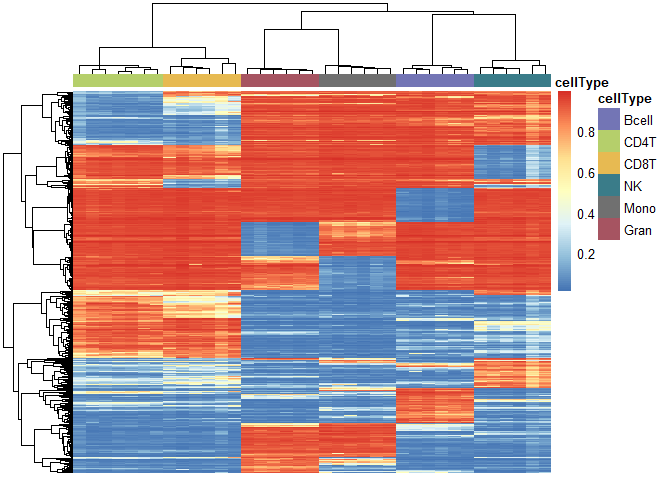
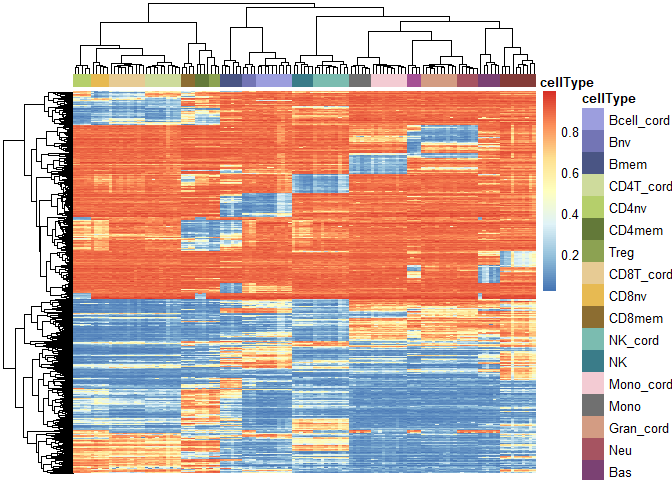
Updated readme and vignette

diff --git a/README.md b/README.md
@@ -47,24 +47,27 @@ UniBlood Reference Generation page
 library(CellsPickMe)
 
 # Request the IDOL reference (2016) with no normalization
-ref_dat <- getRef(ref = "IDOL", normType = "None")
+ref_dat <- getRef(ref = "UniBlood19", normType = "None")
 ```
 
 ### Normalize sample and reference datasets together
 
 Normalize user’s sample and reference data sets together to reduce batch
-effect and improve prediction accuracy
+effect and improve prediction accuracy. Option for `normType` includes
+“Noob”, “Funnorm”, “Quantile”, “Quantile.b”, “None”, with the first 3
+options being exclusively for RGChannelSet objects, and Quantile.b for
+beta matrix.
 
 ``` r
 # Load example blood cell mixture, subsetted from the IDOL dataset (GSE110554)
 test_dat <- CellsPickMe::IDOL_mixed_cells
- 
+    
 # Combine sample and reference data sets together, followed by normalization (if selected)
 comb_dat <- combData(dataset = test_dat, 
-                     reference = ref_dat$reference, 
-                     class = "rgset", 
-                     normType = "Noob", 
-                     cellTypes = ref_dat$cellTypes)
+                     reference = ref_dat$reference,
+                     cellTypes = ref_dat$cellTypes, 
+                     class = "rgset",               #c("rgset", "betas")
+                     normType = "Quantile")         # c("Noob", "Funnorm", "Quantile", "Quantile.b", "None")
 #> Combining Data with Flow Sorted Data and Normalizing.
 ```
 
@@ -115,13 +118,34 @@ probes <- pickProbes(dataNormed = comb_dat,
 
 # Picked probes with RF and the estimated coefficients
 head(probes$coefs$probeCoefs$RF)
-#>                  CD8T      CD4T        NK      Bcell       Mono       Gran
-#> cg00219921 0.13497027 0.8157856 0.9258168 0.95409930 0.94637918 0.94059532
-#> cg25939861 0.08166750 0.8259936 0.6741324 0.91005096 0.90988840 0.91721765
-#> cg11531557 0.10709924 0.5498983 0.9042382 0.93899463 0.95064388 0.94429583
-#> cg02380585 0.92950484 0.9319455 0.0507419 0.02072647 0.02141933 0.02202468
-#> cg02324835 0.07289746 0.3547489 0.8015559 0.91953938 0.92262876 0.91614711
-#> cg27316811 0.15079427 0.4346930 0.9616850 0.95768196 0.97571470 0.97359512
+#>            Bcell_cord      Bmem       Bnv CD8T_cord    CD8mem     CD8nv
+#> cg24262870  0.1235089 0.7885589 0.1454030 0.7988769 0.9002228 0.8815243
+#> cg24667756  0.1468955 0.3246588 0.1774464 0.8213872 0.8656461 0.8369870
+#> cg21531416  0.1954677 0.7161480 0.2611708 0.6352860 0.9123706 0.8243531
+#> cg27436324  0.2643973 0.7655840 0.2042478 0.8774527 0.9099452 0.8940336
+#> cg18406792  0.1745236 0.4272825 0.1660204 0.8060743 0.8471631 0.8077735
+#> cg15198193  0.1576836 0.7751659 0.4488992 0.6089112 0.8850735 0.6163415
+#>            CD4T_cord    CD4mem     CD4nv      Treg Gran_cord       Bas
+#> cg24262870 0.6986202 0.8848730 0.8628457 0.8774487 0.8433450 0.8428693
+#> cg24667756 0.8015645 0.8815034 0.8414196 0.8673486 0.8545976 0.8684859
+#> cg21531416 0.8386425 0.9126800 0.8887243 0.9108057 0.7946011 0.8733178
+#> cg27436324 0.8877283 0.9060499 0.8918332 0.9088491 0.9053751 0.9017803
+#> cg18406792 0.8015001 0.8518648 0.8016774 0.8430231 0.8296527 0.8415291
+#> cg15198193 0.4571046 0.8280606 0.4386012 0.8255160 0.8851114 0.8909355
+#>                  Eos       Neu Mono_cord      Mono   NK_cord        NK
+#> cg24262870 0.8384348 0.8475652 0.8450575 0.8577191 0.8034451 0.8599368
+#> cg24667756 0.8734111 0.8663822 0.8567890 0.8722139 0.7773920 0.8388949
+#> cg21531416 0.8870945 0.8667716 0.7915671 0.8902495 0.8265656 0.8828000
+#> cg27436324 0.9044173 0.9059902 0.9076917 0.9014642 0.8858523 0.8931943
+#> cg18406792 0.8097433 0.8522817 0.8409429 0.8522421 0.7989837 0.8274087
+#> cg15198193 0.8939239 0.9035070 0.8632832 0.8930117 0.7029587 0.7756338
+#>                 nRBC
+#> cg24262870 0.7149653
+#> cg24667756 0.8298977
+#> cg21531416 0.8788950
+#> cg27436324 0.9048735
+#> cg18406792 0.7034571
+#> cg15198193 0.8892714
 ```
 
 ### Assess clustering stability
@@ -161,30 +185,51 @@ out <- predictCT(dataNormed = comb_dat,
 ### Examine output
 
 ``` r
-# Estimated proportions based on IDOL reference, Noob normalization, RF feature selection, and constraint projection
+# Estimated proportions based on UniBlood19 reference, Quantile normalization, RF feature selection, and constraint projection
 # CETYOGO score column shows the CETYGO score for each sample
 head(out$RF)
-#>                           CD8T       CD4T         NK      Bcell       Mono
-#> 201868590193_R01C01 0.20697715 0.05755452 0.16832034 0.18737625 0.19889714
-#> 201868590243_R02C01 0.05762550 0.15450029 0.03597759 0.05109316 0.07399635
-#> 201868590267_R01C01 0.06765754 0.08656360 0.01636060 0.02983963 0.12079926
-#> 201868590267_R05C01 0.12980382 0.15364182 0.03794995 0.02618161 0.09471185
-#> 201869680008_R01C01 0.29098662 0.14490082 0.17136579 0.08515400 0.21821297
-#> 201869680008_R03C01 0.09642377 0.13975148 0.04651692 0.03460012 0.08708938
-#>                          Gran     CETYGO
-#> 201868590193_R01C01 0.2138328 0.05366570
-#> 201868590243_R02C01 0.6566618 0.03948246
-#> 201868590267_R01C01 0.6989066 0.03682644
-#> 201868590267_R05C01 0.5894684 0.04166677
-#> 201869680008_R01C01 0.1258030 0.04975795
-#> 201869680008_R03C01 0.6286077 0.04023896
+#>                        Bcell_cord        Bmem          Bnv     CD8T_cord
+#> 201868590193_R01C01  4.900574e-03 0.033452481 1.379462e-01  1.514549e-17
+#> 201868590243_R02C01  3.651905e-18 0.003854140 2.263836e-02  1.437579e-17
+#> 201868590267_R01C01  8.517287e-19 0.001492958 7.777743e-03  9.612166e-18
+#> 201868590267_R05C01 -4.750408e-19 0.000000000 8.474686e-19 -5.644007e-18
+#> 201869680008_R01C01 -8.604787e-18 0.016948846 4.167371e-02 -2.885869e-18
+#> 201869680008_R03C01  4.207191e-18 0.001690919 1.916507e-04  1.366324e-17
+#>                         CD8mem      CD8nv   CD4T_cord     CD4mem        CD4nv
+#> 201868590193_R01C01 0.09173997 0.10524220 0.003926924 0.03872764 0.0000000000
+#> 201868590243_R02C01 0.01850916 0.05208359 0.029338138 0.07047455 0.0200054165
+#> 201868590267_R01C01 0.02684480 0.05160417 0.016167004 0.05741796 0.0005965834
+#> 201868590267_R05C01 0.04888686 0.09128600 0.031025712 0.09102361 0.0067783757
+#> 201869680008_R01C01 0.12561960 0.16432521 0.033519080 0.08303561 0.0020908658
+#> 201869680008_R03C01 0.03353352 0.07468721 0.021948900 0.07435698 0.0093463515
+#>                            Treg     Gran_cord           Bas           Eos
+#> 201868590193_R01C01 0.001226282 -9.632261e-18  1.724723e-18 -3.909634e-18
+#> 201868590243_R02C01 0.019797856 -2.398769e-17  1.834631e-18  0.000000e+00
+#> 201868590267_R01C01 0.008459640 -1.141656e-17 -2.596394e-18  1.631795e-18
+#> 201868590267_R05C01 0.014504984 -3.927637e-17  1.718343e-18  1.459127e-19
+#> 201869680008_R01C01 0.015657041 -3.078488e-17 -7.265285e-19  0.000000e+00
+#> 201869680008_R03C01 0.015005326 -1.206880e-17  2.004191e-18  0.000000e+00
+#>                           Neu     Mono_cord       Mono       NK_cord
+#> 201868590193_R01C01 0.2342231  2.738654e-19 0.20168628 -1.682621e-17
+#> 201868590243_R02C01 0.7117166  5.758737e-18 0.04418971 -1.019774e-17
+#> 201868590267_R01C01 0.7336139 -2.737916e-18 0.09906315 -1.600910e-18
+#> 201868590267_R05C01 0.6399841 -1.116955e-18 0.06725238  2.389558e-17
+#> 201869680008_R01C01 0.1218932  1.143990e-18 0.24001386 -8.338604e-18
+#> 201869680008_R03C01 0.6862866  7.171603e-18 0.05876430 -1.070111e-17
+#>                               NK          nRBC     CETYGO
+#> 201868590193_R01C01 1.498043e-01  4.923736e-19 0.03460435
+#> 201868590243_R02C01 8.779442e-03 -7.450351e-19 0.03319760
+#> 201868590267_R01C01 2.421607e-18  8.673617e-19 0.03196155
+#> 201868590267_R05C01 1.026174e-02 -1.487835e-18 0.03414952
+#> 201869680008_R01C01 1.568069e-01 -1.228120e-18 0.03585871
+#> 201869680008_R03C01 2.326621e-02 -8.343516e-19 0.03310038
 
 # Basic visualization of deconvolution output
 library(ggplot2)
 library(dplyr)
 library(reshape2)
 
-plt <- out$RF[, c("CD8T", "CD4T", "NK", "Bcell", "Mono", "Gran")] %>%
+plt <- out$RF[, ref_dat$cellTypes] %>%
     as.data.frame(.) %>% 
     reshape2::melt()
 ggplot(plt, aes(variable, value, color = variable)) + 
